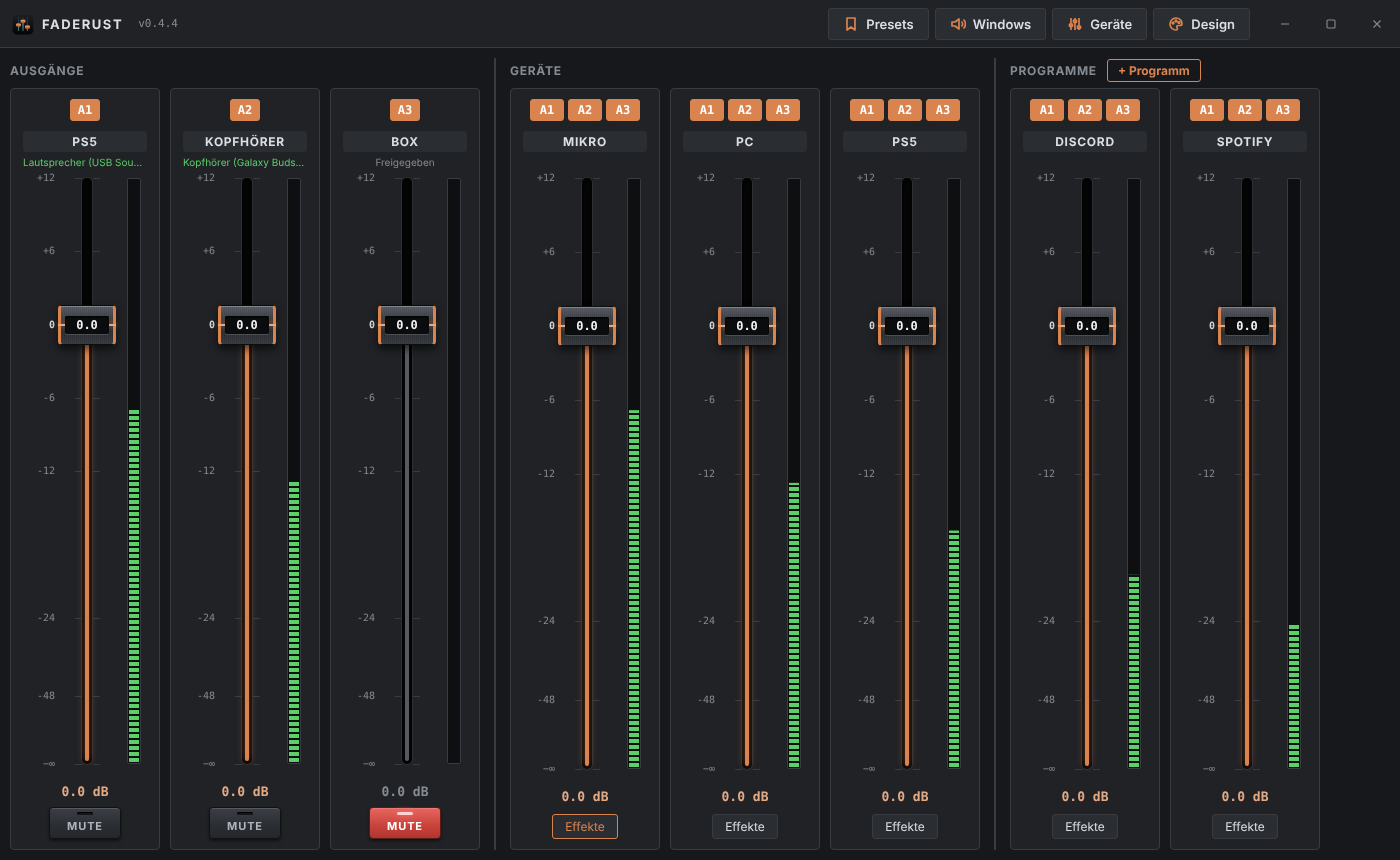
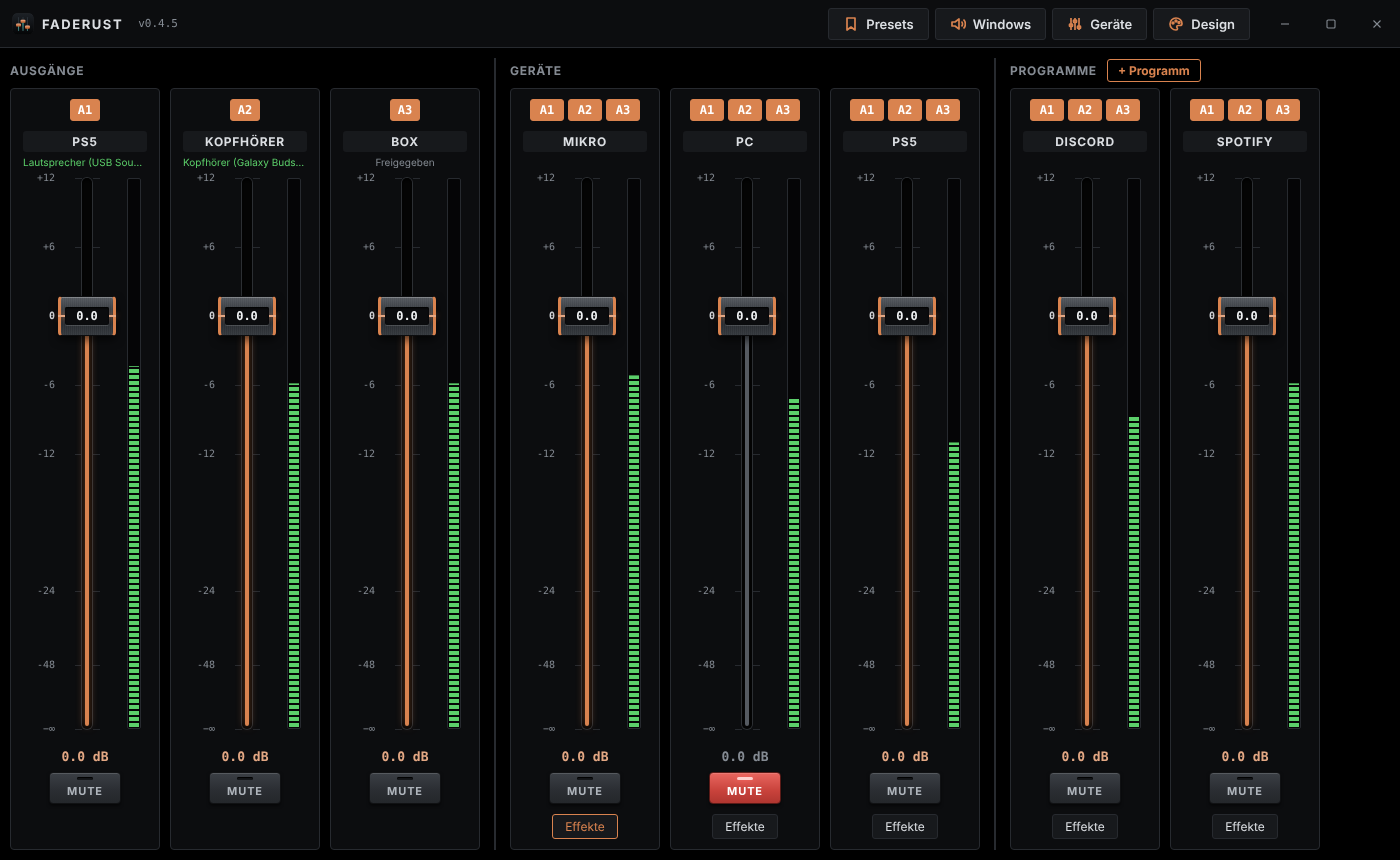
Make dark mode near-black (OLED)

Changed region(s): [[0.0, 0.0302, 1.0, 1.0]]

diff --git a/crates/app/ui/src/app.css b/crates/app/ui/src/app.css
@@ -16,12 +16,13 @@
 :root,
 :root[data-mode="dark"] {
   color-scheme: dark;
-  --bg: #16181b;
-  --panel: #202226;
-  --panel-2: #2a2d32;
+  /* Near-black like an OLED screen; panels lift only slightly. */
+  --bg: #000;
+  --panel: #0c0d0f;
+  --panel-2: #17191c;
   /* Recessed areas: fader slots, meters, inputs. */
-  --well: #0e0f11;
-  --border: #383c42;
+  --well: #050506;
+  --border: #272a2f;
   --text: #dcdfe3;
   --muted: #858b93;
   --accent: var(--accent-base);

diff --git a/.github/release-notes.md b/.github/release-notes.md
@@ -2,6 +2,7 @@ Testversion für Windows 10/11. Noch nicht auf echter Hardware erprobt, Fehler s
 
 Neu in 0.4.5:
 
+- Dunkle Darstellung jetzt fast schwarz (OLED-Stil)
 - Geräte und Programme haben im Pult einen eigenen MUTE-Knopf. Er schaltet den Eingang überall stumm, die Auswahl A1–A3 bleibt dabei erhalten
 - Ruhigere LED-Anzeigen: Sie steigen sofort, fallen aber langsam ab wie bei einem Hardware-Pult
 - Wie lange Faderust bei Stille wartet, bevor ein Bluetooth-Ausgang freigegeben wird, stellst du jetzt unter „Geräte“ pro Ausgang ein: nie, 5 s, 30 s oder 2 min. Standard sind 30 s, so laufen kurze Pausen ohne Verzögerung weiter. Nach einer Freigabe braucht Bluetooth beim Wiederstart etwa eine Sekunde, das lässt sich nicht beschleunigen
